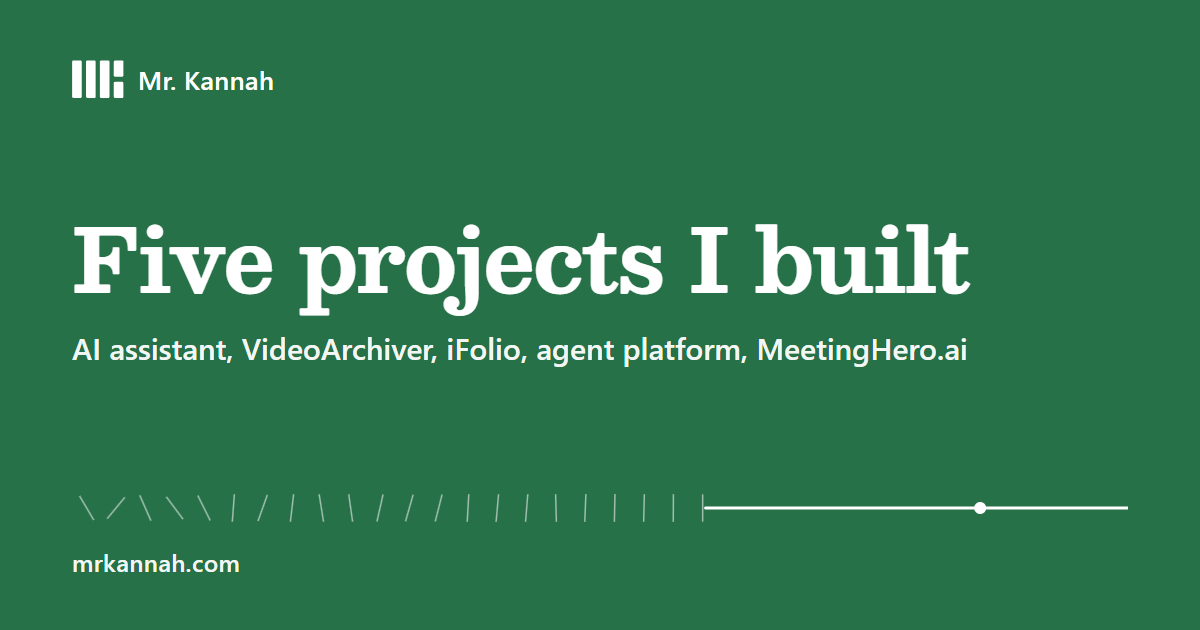
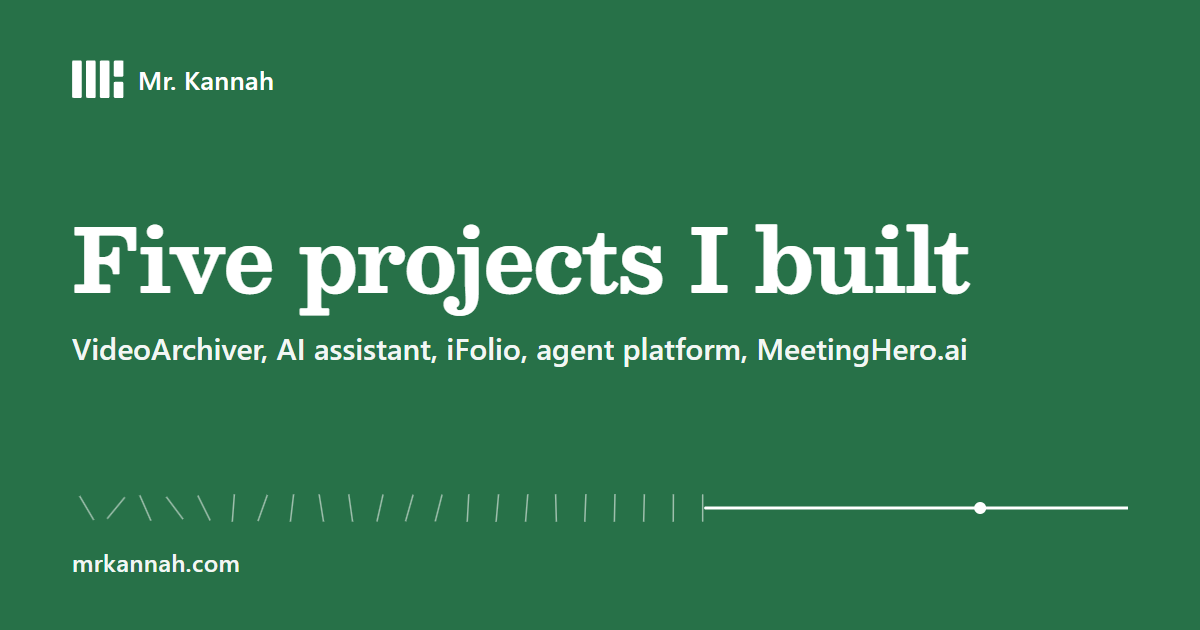
feat(showcase): put VideoArchiver first, read its video notes to assistive tech
VideoArchiver, the most recent project, now leads the showcase index (and
the index's meta description and social card). Its video shows no caption
under it, on the page or the index: the notes (what it shows, the made-up
data, the timestamps) become CaseVideo's new optional `description`, kept in
a hidden element that the video and its play badge reference with
aria-describedby. The other recordings keep their captions.

Changed region(s): [[0.0617, 0.5429, 0.37, 0.573]]

diff --git a/src/data/showcase.ts b/src/data/showcase.ts
@@ -60,28 +60,6 @@ export type ShowcaseProject = {
 
 export const PROJECTS: readonly ShowcaseProject[] = [
   {
-    slug: "ai-assistant",
-    path: "/showcase/ai-assistant",
-    rowTitle: "AI assistant in a client’s app",
-    when: ["4 weeks", "American Growth Insurance"],
-    summary:
-      "I built an AI assistant into American Growth Insurance’s existing app as a fixed-scope project, on the Suna agent framework. In the recording it researches a topic and drafts a sales deck.",
-    facts: [
-      {
-        label: "Client",
-        value: "American Growth Insurance",
-        href: AGI_CASE_STUDY,
-      },
-      { label: "Length", value: "4 weeks, fixed scope" },
-      {
-        label: "Built on",
-        value: "Suna agent framework",
-        href: SUNA_URL,
-        rest: "and AGI’s React, Express and PostgreSQL codebase",
-      },
-    ],
-  },
-  {
     slug: "videoarchiver",
     path: "/showcase/videoarchiver",
     rowTitle: "VideoArchiver",
@@ -102,6 +80,28 @@ export const PROJECTS: readonly ShowcaseProject[] = [
       {
         label: "Storage",
         value: "Google Drive, Dropbox and S3-compatible",
+      },
+    ],
+  },
+  {
+    slug: "ai-assistant",
+    path: "/showcase/ai-assistant",
+    rowTitle: "AI assistant in a client’s app",
+    when: ["4 weeks", "American Growth Insurance"],
+    summary:
+      "I built an AI assistant into American Growth Insurance’s existing app as a fixed-scope project, on the Suna agent framework. In the recording it researches a topic and drafts a sales deck.",
+    facts: [
+      {
+        label: "Client",
+        value: "American Growth Insurance",
+        href: AGI_CASE_STUDY,
+      },
+      { label: "Length", value: "4 weeks, fixed scope" },
+      {
+        label: "Built on",
+        value: "Suna agent framework",
+        href: SUNA_URL,
+        rest: "and AGI’s React, Express and PostgreSQL codebase",
       },
     ],
   },
@@ -419,7 +419,13 @@ export type ScreenRecording = {
   /** Intrinsic pixel size of the file. */
   width: number;
   height: number;
-  caption: string;
+  /** Shown under the recording. */
+  caption?: string;
+  /**
+   * Notes on the recording read only to assistive tech (CaseVideo's
+   * description), for a recording that shows no caption.
+   */
+  description?: string;
   /** What the recording shows, for assistive tech. */
   label: string;
 };
@@ -490,8 +496,10 @@ export const IFOLIO_RECORDING: ScreenRecording = {
  * real dashboard running in its demo mode (the VideoArchiver repo's
  * docs/demo-mode.md): the cameras Front Door, Driveway and Backyard and every
  * clip, time and file path are the demo's made-up seed, so it shows no real
- * footage, accounts or email addresses. That is why the caption says the
- * cameras and clips are made up. What the video changes in the real screens:
+ * footage, accounts or email addresses. That is why its description says the
+ * cameras and clips are made up. The recording shows no caption, at Fadee's
+ * request (2026-10-24): those notes go to assistive tech as the video's
+ * description instead. What the video changes in the real screens:
  *   - The support address under the setup picker and in the portal footer is
  *     removed, and so are the setup page's demo note, the pricing cards'
  *     buttons and Pro's store line. The page names no store.
@@ -509,8 +517,8 @@ export const IFOLIO_RECORDING: ScreenRecording = {
  * 2026-10-24 (3.4 MB). videoarchiver-poster.jpg is the frame at 5 s, the
  * events landing, also baked in as the video's first frame.
  *
- * The timestamps in the caption are positions in the video, checked against
- * frames of the site encode: setup from 0:06, the clip saved at 0:16, the clip
+ * The timestamps in the description are positions in the video, checked
+ * against frames of the site encode: setup from 0:06, the clip saved at 0:16, the clip
  * passing through from 0:22, the retrying row at 0:29 and saved at 0:32,
  * Replay pressed at 0:35, Devices at 0:37 and the plans at 0:45.
  */
@@ -519,7 +527,7 @@ export const VIDEOARCHIVER_RECORDING: ScreenRecording = {
   poster: "/img/showcase/videoarchiver-poster.jpg",
   width: 1280,
   height: 720,
-  caption:
+  description:
     "A walkthrough of VideoArchiver with made-up cameras and clips from its demo mode, not real footage. Setup starts at 0:06, a front-door clip is saved at 0:16, and from 0:22 a clip passes through without being stored. In the Events log a failed save retries at 0:29 and is saved at 0:32, and a failed clip is replayed at 0:35. Devices and Storage follow at 0:37, then the plans at 0:45.",
   label:
     "Recording of VideoArchiver with made-up cameras and clips: events landing, the three setup steps, one clip saved to Google Drive, the clip passing through without being stored, the Events log with a retry and a replay, the Devices and Storage pages, and the Free and Pro plans",

diff --git a/src/pages/showcase/index.tsx b/src/pages/showcase/index.tsx
@@ -27,13 +27,15 @@ import styles from "./showcase.module.css";
 
 /*
  * The showcase index: the proof spine from the homepage, extended to every
- * project. One release line runs down the page with a node per project, each
- * with its recording (iFolio's runs on a made-up portfolio, since the real
- * account data can't be shown, and VideoArchiver's on its dashboard's demo
- * mode, with made-up cameras and clips) and a link to its write-up. The smaller builds
- * carry their own recordings and the recognition ledger its certificates and
- * covers. Facts live in src/data/showcase.ts, shared with the write-ups. Case
- * Studies are their own section of the site.
+ * project, led by the most recent, VideoArchiver. One release line runs down
+ * the page with a node per project, each with its recording (iFolio's runs on
+ * a made-up portfolio, since the real account data can't be shown, and
+ * VideoArchiver's on its dashboard's demo mode, with made-up cameras and
+ * clips; its notes are read to assistive tech instead of shown as a caption)
+ * and a link to its write-up. The smaller builds carry their own recordings
+ * and the recognition ledger its certificates and covers. Facts live in
+ * src/data/showcase.ts, shared with the write-ups. Case Studies are their own
+ * section of the site.
  */
 
 /** A ledger entry's small image; it opens the full-size one in a new tab. */
@@ -76,13 +78,14 @@ function Media({ project }: { project: ShowcaseProject }): JSX.Element | null {
       );
     case "videoarchiver":
       return (
-        <CaseFigure framed caption={VIDEOARCHIVER_RECORDING.caption}>
+        <CaseFigure framed>
           <CaseVideo
             src={VIDEOARCHIVER_RECORDING.src}
             poster={VIDEOARCHIVER_RECORDING.poster}
             width={VIDEOARCHIVER_RECORDING.width}
             height={VIDEOARCHIVER_RECORDING.height}
             label={VIDEOARCHIVER_RECORDING.label}
+            description={VIDEOARCHIVER_RECORDING.description}
           />
         </CaseFigure>
       );
@@ -131,7 +134,7 @@ export default function Showcase(): JSX.Element {
     <CaseStudyLayout
       variant="index"
       title="Showcase"
-      description="An AI assistant in a client’s app, the VideoArchiver Ring clip archiver, the iFolio portfolio tracker, a white-label agent platform and MeetingHero.ai: five projects I built, with write-ups."
+      description="The VideoArchiver Ring clip archiver, an AI assistant in a client’s app, the iFolio portfolio tracker, a white-label agent platform and MeetingHero.ai: five projects I built, with write-ups."
       image="/img/og/showcase.png"
     >
       <CaseIntro

diff --git a/src/components/CaseStudy/index.tsx b/src/components/CaseStudy/index.tsx
@@ -1,5 +1,6 @@
 import React, {
   useEffect,
+  useId,
   useRef,
   useState,
   type CSSProperties,
@@ -805,6 +806,12 @@ type CaseVideoProps = {
    * play; without one, the metadata and a still frame load up front.
    */
   poster?: string;
+  /**
+   * Longer notes on the recording (what it shows, and when) for assistive
+   * tech only: the video and its play badge point at them with
+   * aria-describedby, and they are never shown on the page.
+   */
+  description?: string;
 };
 
 /**
@@ -815,6 +822,7 @@ type CaseVideoProps = {
  * play badge (the same one the YouTube embeds wear) sits over it, so a
  * recording never reads as a screenshot. The badge is the one tab stop before
  * play; the native player takes over, with its own controls, once it runs.
+ * A `description` is read to assistive tech and not shown.
  */
 export function CaseVideo({
   src,
@@ -823,9 +831,13 @@ export function CaseVideo({
   label,
   still = 1,
   poster,
+  description,
 }: CaseVideoProps): JSX.Element {
   const { withBaseUrl } = useBaseUrlUtils();
   const videoRef = useRef<HTMLVideoElement>(null);
+  // useId matches between the server render and hydration.
+  const descriptionId = useId();
+  const describedBy = description ? descriptionId : undefined;
   const [started, setStarted] = useState(false);
   const start = (): void => {
     setStarted(true);
@@ -845,15 +857,24 @@ export function CaseVideo({
         preload={poster ? "none" : "metadata"}
         playsInline
         aria-label={label}
+        aria-describedby={describedBy}
         tabIndex={started ? undefined : -1}
         onPlay={() => setStarted(true)}
       />
+      {/* Hidden from view and from reading order; a description reference
+          still reads hidden text. */}
+      {description ? (
+        <p id={descriptionId} hidden>
+          {description}
+        </p>
+      ) : null}
       {started ? null : (
         <button
           type="button"
           className={styles.videoPlay}
           onClick={start}
           aria-label={`Play: ${label}`}
+          aria-describedby={describedBy}
         >
           <span className={styles.videoBadge}>
             <Play className={styles.videoIcon} />

diff --git a/src/pages/showcase/videoarchiver.tsx b/src/pages/showcase/videoarchiver.tsx
@@ -32,8 +32,9 @@ import styles from "./showcase.module.css";
  * release records, the commit history) and a stack of tool names, and never
  * how the pieces fit together. The one call to action is the live site; the
  * page names no store, install button or launch date. The recording runs on
- * the dashboard's demo mode (see VIDEOARCHIVER_RECORDING), and its transcript
- * sits in a fold under it.
+ * the dashboard's demo mode (see VIDEOARCHIVER_RECORDING). It shows no
+ * caption: its notes are the video's description for assistive tech, and its
+ * transcript sits in a fold under it.
  */
 
 const PROJECT = getProject("videoarchiver");
@@ -128,13 +129,14 @@ export default function VideoArchiver(): JSX.Element {
         facts={FACTS}
       />
 
-      <CaseFigure framed caption={VIDEOARCHIVER_RECORDING.caption}>
+      <CaseFigure framed>
         <CaseVideo
           src={VIDEOARCHIVER_RECORDING.src}
           poster={VIDEOARCHIVER_RECORDING.poster}
           width={VIDEOARCHIVER_RECORDING.width}
           height={VIDEOARCHIVER_RECORDING.height}
           label={VIDEOARCHIVER_RECORDING.label}
+          description={VIDEOARCHIVER_RECORDING.description}
         />
       </CaseFigure>
 

diff --git a/DESIGN.md b/DESIGN.md
@@ -373,7 +373,7 @@ Docusaurus navbar with Home title, logo (`logo.svg` / `logoDark.svg`), left Case
 - **Count-up numerals** (`src/components/CountUp`): an `aria-hidden` overlay counts up over the real, already-final text, once, on first view (1.5s ease-out, 110ms apart, from 40% in view or at mount if already on screen); the DOM text and layout never change. The homepage stats band and the `/about` numeral ledger (`CaseStats countUp`) share it; the case studies' ledgers stay static.
 - **Case-study system** (`src/components/CaseStudy/`, `/case-studies/*`): every study composes the same parts in the same order. Outcome H1 in Besley, a first-person lede, and a facts ledger (client on the logo plate, engagement linking to the offers, length, industry); a ruled numeral ledger with a footnote for windows and estimates; the lead client quote in the Consulting Quote face with a hung opening mark and no side bar; then four fixed H2s on the release-line spine (Where things stood, How we worked, What I built, What changed), one node per section scrubbed by scroll (drawn at 62% viewport with a Reveal fallback), collapsing to the 2px opening stroke under 997px; a `<details>` tech stack; the other two studies from `registry.ts`; and `FinalCta`. From 997px the facts ledger stands beside the H1 and lede as a column of ruled rows (7/12 to 5/12), and each story section is an editorial row: the H2 in 4/12 beside its node, the body in 8/12. Prose holds near 68ch, chart and video take the body column, and screenshot frames run the full content width. The index lists the studies as ledger rows on the same spine (reveal-fill by design: two short rows on a short page give scroll-scrub no distance to read), in the homepage order.
 - **About page** (`src/pages/about.tsx`, `src/components/AboutHero/`): the case-study parts on a personal record. `AboutHero` reuses the homepage's `SignalField` and `PortraitTile` (the portrait is the field's anchor with `data-field-rise`; the headline and lede are `data-field-quiet`) with the case-study H1 step (`--cs-h1`, two sentences, one per line from 997px). Chapters are `SpineSection`s (a spine section with a free title and an optional date line under it; `CaseSection` is the same with a study's four fixed titles and no date line, always scrubbed). `/about`, showcase, and the case studies all pass `scrub`, so each spine is drawn by scroll exactly as the homepage proof spine is: a reading line at 62% of the viewport, each segment drawing downward as it passes and each node filling as the line reaches it (CSS scroll-driven animation from 997px, motion allowed; under 997px the spine is the short stroke and does not animate, and a browser without scroll-driven animation shows the line fully drawn with each node filling as its chapter reveals). `CaseFold` holds longer prose: from 997px it sits in the body column, its summary H2 in Besley 1.5rem over H3s at 1.25rem, 68ch paragraphs, and a `#hash` link to anything inside it opens it and scrolls there. A logo plate that has a case study is a link; one that has none is not. Clients appear as logo plates only. A named quote uses `CaseQuote` with a title the source confirms.
-- **Showcase** (`src/pages/showcase/`, data in `src/data/showcase.ts`): the case-study parts on the work itself. `CaseHeader` is the masthead for a page with no registry client (term and value rows beside the H1 and lede). `CaseVideo` takes a `poster`, so a recording loads only on play. `LiteYouTube` is a click-to-load YouTube video in the same screenshot frame, with a local poster so nothing from YouTube loads first. A project that has no safe screenshot gets a figure drawn from its own facts instead: iFolio's trust boundary is a hairline box for the device holding four steps with arrows, and the two services outside it (a price-relay Worker and an optional Sheets sync) in dashed boxes. VideoArchiver's recording is a narrated walkthrough made from its dashboard's demo mode, with made-up cameras and clips; its soundtrack plays only on click, like iFolio's. Smaller builds are a ruled list (name in Besley, one plain paragraph, a recording in the same screenshot frame held narrow with its own `maxWidth`, links); recognition is a ruled ledger with the year in a Besley numeral, a source link, and a small framed thumbnail on the right (a certificate, cover or photo) that opens the full-size image in a new tab. The project rows and write-ups use no recordings or screenshots that show real account data or other people's names, calendar entries or email addresses; the smaller builds' lab dashboard, DJ app and PureFrame clips are shown as they were, at Fadee's request.
+- **Showcase** (`src/pages/showcase/`, data in `src/data/showcase.ts`): the case-study parts on the work itself. `CaseHeader` is the masthead for a page with no registry client (term and value rows beside the H1 and lede). `CaseVideo` takes a `poster`, so a recording loads only on play, and an optional `description` read to assistive tech and never shown. `LiteYouTube` is a click-to-load YouTube video in the same screenshot frame, with a local poster so nothing from YouTube loads first. A project that has no safe screenshot gets a figure drawn from its own facts instead: iFolio's trust boundary is a hairline box for the device holding four steps with arrows, and the two services outside it (a price-relay Worker and an optional Sheets sync) in dashed boxes. VideoArchiver's recording is a narrated walkthrough made from its dashboard's demo mode, with made-up cameras and clips; its soundtrack plays only on click, like iFolio's. It shows no caption: its notes (what it shows, the made-up data, the timestamps) are `CaseVideo`'s `description`, which the video and its play badge reference with `aria-describedby` and the page never shows. Smaller builds are a ruled list (name in Besley, one plain paragraph, a recording in the same screenshot frame held narrow with its own `maxWidth`, links); recognition is a ruled ledger with the year in a Besley numeral, a source link, and a small framed thumbnail on the right (a certificate, cover or photo) that opens the full-size image in a new tab. The project rows and write-ups use no recordings or screenshots that show real account data or other people's names, calendar entries or email addresses; the smaller builds' lab dashboard, DJ app and PureFrame clips are shown as they were, at Fadee's request.
 - **Glass badge** (`/card`): the digital business card, two faces in one pane over the full-viewport `SignalField` (`hero` variant; the portrait is the field's anchor with `data-field-rise`, so the line enters behind it and climbs past; the name, role, and line are `data-field-quiet`).
   - **Front:** the round portrait, the name in Besley, the role, and one plain line; phone and email as glass rows readable without a tap (a 40px green-tinted icon well, then a muted label over the value); the three button weights; then profiles in a deliberate two-step hierarchy: work profiles (LinkedIn, GitHub, the website) as 44px glass tiles with green marks that fill green on hover, and personal profiles (Instagram, Facebook) as 36px untiled marks in muted grey, a step back. Profile marks carry an inverse-colored hover tip, hidden under `(hover: none)` because on touch it would only flash on tap.
   - **Back:** the branded QR on a white plate, the name again, and a caption; a 44px glass back button sits in the top-left corner. Escape also turns the badge back.

diff --git a/PRODUCT.md b/PRODUCT.md
@@ -44,7 +44,7 @@ A generic agency sells capacity; this product sells founder-to-production accoun
 Confirmed functionality:
 
 - Home (`src/pages/index.tsx`): the consulting-led page: hero, stats band with selected-work logos, pain groups, proof showcase, engagement offers, testimonials, fit FAQ, closing CTA, contact.
-- Showcase (`src/pages/showcase/`): the index plus five write-ups (`ai-assistant`, `videoarchiver`, `ifolio`, `agent-platform`, `meetinghero`), with smaller builds and recognition on the index. Data in `src/data/showcase.ts`. Case Studies are their own top-level nav item.
+- Showcase (`src/pages/showcase/`): the index plus five write-ups, led by the most recent (`videoarchiver`, `ai-assistant`, `ifolio`, `agent-platform`, `meetinghero`), with smaller builds and recognition on the index. Data in `src/data/showcase.ts`. Case Studies are their own top-level nav item.
 - Blog docs at `/blog` (`docs/`, `sidebars.ts`), About (`src/pages/about.tsx`), plus goals, podcasts, summit, years, card, 653-timberfalls-for-rent. `datingProfile` was intentionally removed (commit "Remove dating page"); its images now live under `docs/Yearly/2024/`.
 - Technical constraints: Docusaurus 3.10.2 + React 19 + TypeScript strict, static export to `build/`, `onBrokenLinks: throw`, English-only, gtag `G-QRPFQQWH20`.
 
